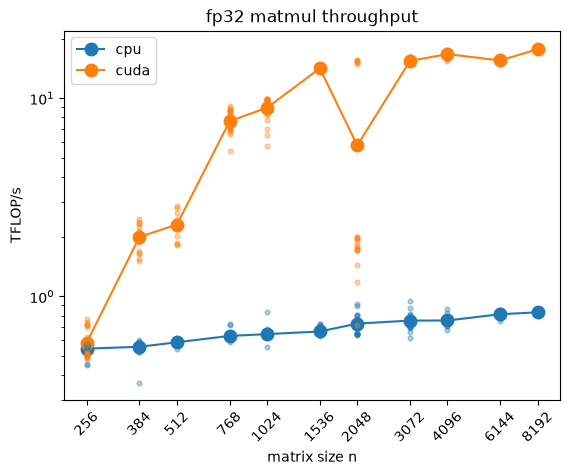
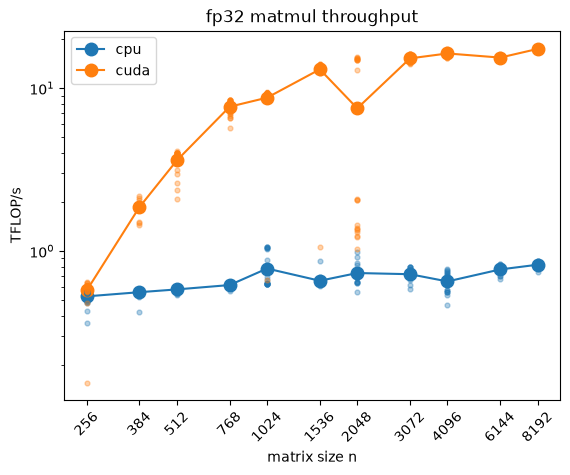
ci-test: add fresh run record (must pass run-records)

diff --git a/runs/2026-07-03_hardware_detection.2026-07-04.md b/runs/2026-07-03_hardware_detection.2026-07-04.md
@@ -215,11 +215,13 @@ ax.set_xticks(sizes, labels=[str(n) for n in sizes], rotation=45, minor=False)
 ax.xaxis.set_minor_locator(plt.NullLocator())  # default log ticks would clutter
 ax.legend()
 plt.show()
+
+# ci-test marker
 ```
 
 ```
- cpu: n=256:   0.545  n=384:   0.556  n=512:   0.586  n=768:   0.631  n=1024:   0.645  n=1536:   0.665  n=2048:   0.728  n=3072:   0.754  n=4096:   0.755  n=6144:   0.812  n=8192:   0.831
-cuda: n=256:   0.584  n=384:   1.996  n=512:   2.301  n=768:   7.657  n=1024:   8.954  n=1536:  14.149  n=2048:   5.778  n=3072:  15.431  n=4096:  16.699  n=6144:  15.503  n=8192:  17.685
+ cpu: n=256:   0.526  n=384:   0.558  n=512:   0.581  n=768:   0.618  n=1024:   0.780  n=1536:   0.656  n=2048:   0.732  n=3072:   0.720  n=4096:   0.650  n=6144:   0.770  n=8192:   0.823
+cuda: n=256:   0.572  n=384:   1.860  n=512:   3.599  n=768:   7.687  n=1024:   8.735  n=1536:  13.037  n=2048:   7.513  n=3072:  15.225  n=4096:  16.320  n=6144:  15.396  n=8192:  17.399
 ```
 
 ![png](2026-07-03_hardware_detection.2026-07-04_files/2026-07-03_hardware_detection.2026-07-04_10_1.png)